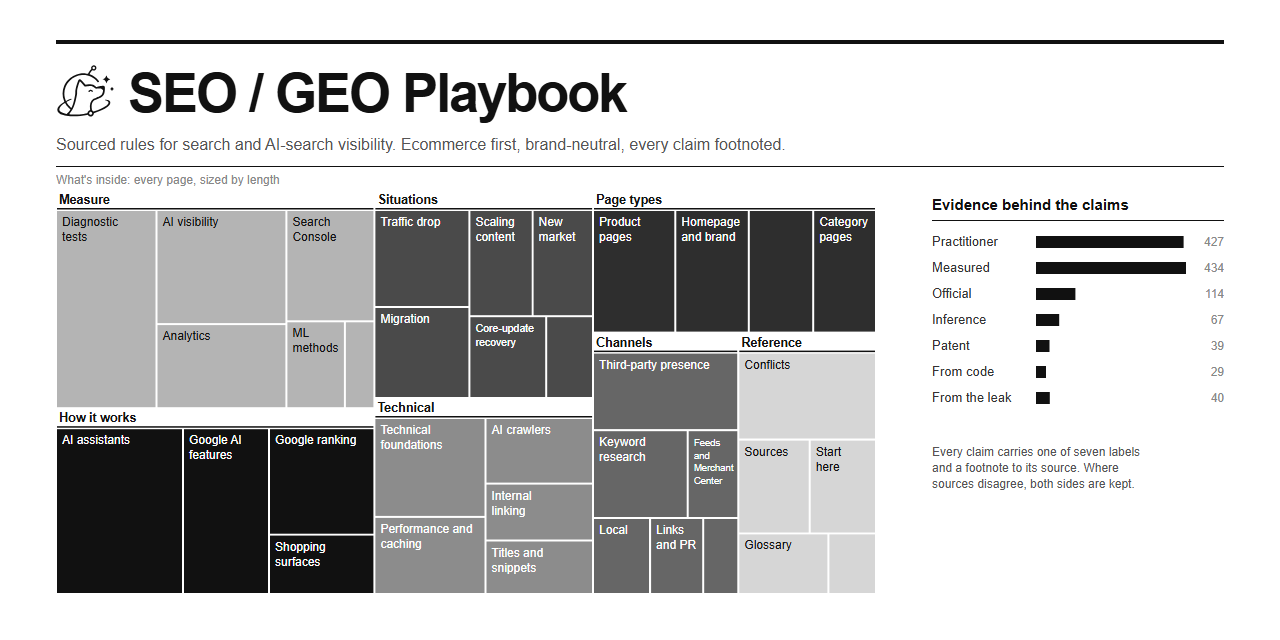
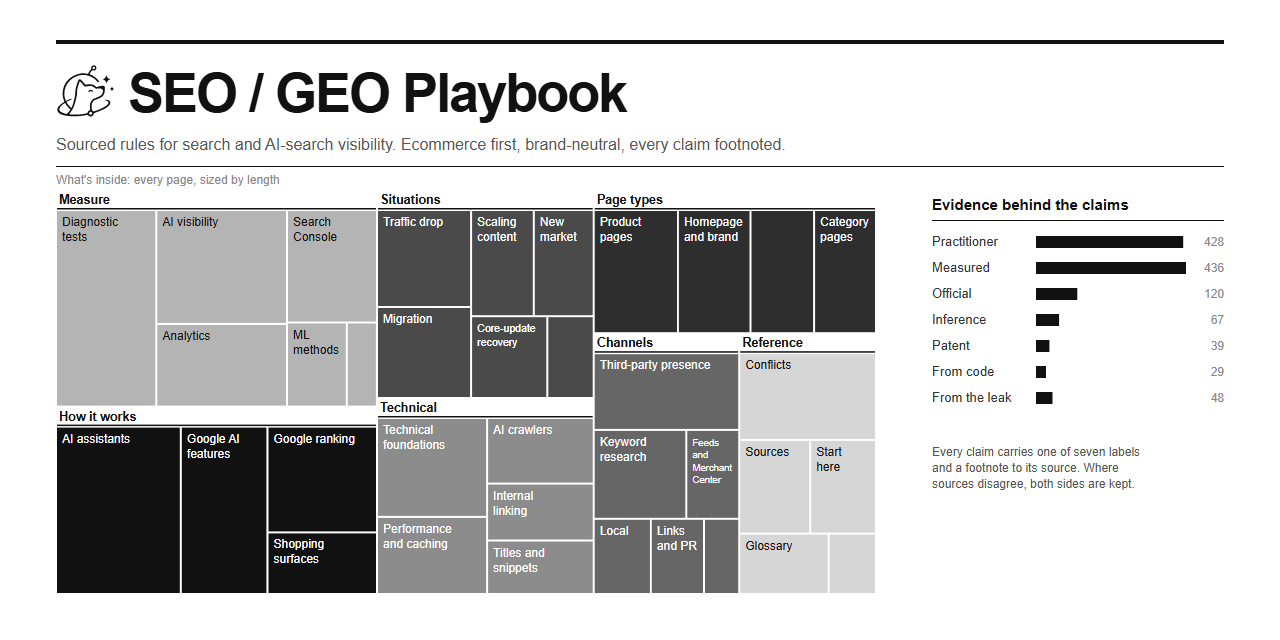
seo-geo-playbook-v2026.11.17

diff --git a/playbook/how-it-works/ai-assistants.md b/playbook/how-it-works/ai-assistants.md
@@ -4,10 +4,13 @@ title: How AI assistants retrieve and cite
 description: What ChatGPT, Gemini, Claude and Perplexity actually read — the ~200 characters after the H1 and per-chunk scores on fetched pages, mostly static HTML (Gemini reads JavaScript content), no schema, discovery, mode and model effects, English fan-out, engines that don't agree, citations outside Google's top 10, fresher content, ChatGPT's search config, rerankers and hybrid retrieval, HTML extraction, shrinking, volatile and site-restricted fan-outs, updated-vs-published recency, what models already know about brands, what academic GEO tests found, and how Perplexity's own index (Photon) ranks pages.
 tags: [geo, chatgpt, gemini, perplexity, claude, crawling, citations, fan-out, schema, freshness, rerankers, reddit, javascript, bing]
 status: stable
-generated: { by: claude-code/claude-opus-5-5, at: 2026-11-03T08:00:00Z }
-verified: { by: human:martin-aberastegue, at: 2026-11-03T08:01:00Z }
+generated: { by: claude-code/claude-opus-5-5, at: 2026-11-17T10:28:00Z }
+verified: { by: human:martin-aberastegue, at: 2026-11-17T10:28:00Z }
 stale_after: 2027-04-28T00:00:00Z
 sources:
+  - id: rs-chatgpt-exp
+    resource: "https://think.resoneo.com/chatgpt-experiments/"
+    title: "Resoneo, ChatGPT experiments tracker (feature flags read daily from chatgpt.com, Jul – Nov 2026; read in a browser, last ~6,000 of 66,000 characters not captured)"
   - id: seocrawl-ai-vs-organic
     resource: "https://seocrawl.ai/blog/ai-traffic-vs-organic-search-study"
     title: "SEOcrawl AI (David Kaufmann), AI traffic vs Google organic in 2026 (2026-10-23; 16,661 sites in Search Console, 3,949 in GA4; vendor's own users; report PDF read too)"
@@ -415,6 +418,12 @@ Same source and caveats as [section 19](#19-retrieved-is-not-cited): one recordi
 - **Perplexity.** Usually 15–45 web results per answer; each source goes REVIEWING, then REVIEWED (read, not cited, ~70 %) or SELECTED (cited, ~30 %). Most answers ran one search step (up to five), usually with 3 reworded queries. It has a named `shopping_intent` classifier (no figures; see [shopping surfaces](shopping-surfaces.md#5-shopping-signals-in-assistant-answers)), and 85 of 220 signed-in suggested follow-ups (38 %) were upsells to its paid agent. *Measured, vendor data, small sample.*[^st-perplexity]
 - **Do:** make sure key pages rank in Brave as well as Bing and Google; don't assume a URL an assistant hasn't found in search can be fetched on request; log the model per answer, signed in and out ([AI visibility tracking](../measure/ai-visibility-tracking.md)).
 
+## 21. What ChatGPT is testing (feature flags)
+- **Read flags as signals, not launches.** ChatGPT's web app embeds its feature flags in every page load; a daily logged-out capture shows what OpenAI is testing, but a flag proves neither that a feature shipped nor when. *From code; the source's own caveat.*[^rs-chatgpt-exp]
+- **Shopping and payments, autumn 2026:** a shopping price-alert setting appeared on 11 November (default daily, only tested), a wallet purchase-completion flag is on, and product images are fetched directly from the merchant with large images preferred. *From code; mostly tested.*[^rs-chatgpt-exp]
+- **Ads are being built:** weekly summaries trace a personalised-ads prototype (late July), an ads manager, a pinned placement (new 14 November) and ad credits for business workspaces, plus advertising agents named for a home-goods and a home-improvement retailer. *From code; headlines, not confirmed launches.*[^rs-chatgpt-exp]
+- **For tracking:** the flag base is the same for every user (personal settings are a thin layer), regional settings follow the IP country, and citation tags for source type and recency exist but are switched off. Track per country, signed out, and re-baseline when a feature goes live ([AI visibility tracking](../measure/ai-visibility-tracking.md)). *From code.*[^rs-chatgpt-exp]
+
 Related: [Google AI features](google-ai-features.md), [Google ranking](google-ranking.md), [third-party presence](../channels/third-party-presence.md), [AI crawlers and controls](../technical/ai-crawlers-and-controls.md), [AI visibility tracking](../measure/ai-visibility-tracking.md).
 
 [^chatgpt-retrieval]: Resoneo × Oncrawl, read 2026-10-27: funnel 58k retrieved → 7.6k shown → 5k cited → 760 opened; ~202-character snippet from the H1; JSON-LD stripped; bot roles and cache; utm on ~95 % of displayed links; instant vs thinking search counts.
@@ -490,3 +499,4 @@ Related: [Google AI features](google-ai-features.md), [Google ranking](google-ra
 [^st-brave]: Steve Toth, undated guide, read 2026-10-29: 26 Brave Search sessions with the AI answer off; vendor data.
 [^ser-gemini-utm]: Search Engine Roundtable, 2026-10-30: Gemini added `utm_source=gemini` to cited links from early September 2026 and stopped around 28 September (Natzir Turrado's chart; also seen by John Mueller); gemini.google.com referrer visits stayed flat on desktop; the iOS app opens links in a WebView with no referrer (Direct in GA4), visible only as the `GeminiiOS` user agent in server logs. No Google statement.
 [^seocrawl-ai-vs-organic]: SEOcrawl AI, 2026-10-23, blog post and 32-page report: Search Console clicks for 16,661 sites (Sep 2025 – Aug 2026 vs the year before) and GA4 AI-referred sessions for 3,949 sites (Mar 2025 – Aug 2026); sites are the vendor's own users who opted in, not a random sample; AI traffic counted only by referrer, so a floor. Google clicks −15.0 % in total, median site −20.1 %, 69 % of sites down, impressions +0.4 %; AI sessions +44.6 %, 0.36 % of all sessions, 1.25 per 100 Google organic sessions; assistant shares Mar–Aug 2026: ChatGPT 83.3 %, Gemini 6.0 %, Perplexity 4.7 %, Claude 3.7 %, Copilot 2.1 %. Ecommerce and retail (1,581 sites): median Google clicks −15 %, 70 % of sites down, 1.99 AI visits per 100 Google visits, AI referrals +54 % (76 % of sites grew), ChatGPT 90.4 % of AI referrals.
+[^rs-chatgpt-exp]: Resoneo, ChatGPT experiments tracker, read 2026-11-17: daily logged-out captures of the feature-flag payload embedded in chatgpt.com, plus weekly summaries; identifiers hashed, a flag proves neither shipping nor timing (Resoneo's own caveat). Shopping price alerts config first seen 2026-11-11 (default daily); `wallet_purchase_completion` on; product images fetched directly, large images only; ads timeline in weekly headlines (personalised-ads MVP W31, ads manager, pinned placement new 2026-11-14, workspace ad credits from 2026-11-04); retailer and travel ad agents named (Lowe's, Wayfair, Expedia); citation source-type and recency tags present but disabled; regional configs keyed on IP country; link and entity clicks in generated answers sampled at 1 %; flag base the same for every user with a thin per-account layer. The last ~6,000 of ~66,000 characters were not captured.

diff --git a/playbook/measure/ai-visibility-tracking.md b/playbook/measure/ai-visibility-tracking.md
@@ -4,10 +4,13 @@ title: AI-visibility tracking
 description: How to count AI-assistant traffic and visibility — untagged clicks by design and by accident, Direct spikes that are bots, GA4's AI Assistant channel, one hostname-anchored channel group, the real size of the channel, per-engine reporting, mentions without links, the May 2026 ChatGPT link change, what Bing's AI Performance covers, prompt-tracker pitfalls (personalisation, clean accounts), re-baselining at model changes and fan-out volatility, entity tracking with search on and off, brand-canon accuracy, share of voice beyond presence, building the prompt set, runs and margin of error, AI as a brand channel, dark AI traffic, AI Overview citation tracking, retrieved vs cited vs named, replay and sign-in skew, AI Mode journeys from Search Console follow-ups and Gemini link tags.
 tags: [measurement, geo, ga4, chatgpt, ai-assistants, attribution, caveats, prompt-tracking, share-of-voice, brand-accuracy]
 status: stable
-generated: { by: claude-code/claude-opus-5-5, at: 2026-11-03T08:00:00Z }
-verified: { by: human:martin-aberastegue, at: 2026-11-03T08:01:00Z }
+generated: { by: claude-code/claude-opus-5-5, at: 2026-11-12T11:55:00Z }
+verified: { by: human:martin-aberastegue, at: 2026-11-17T10:25:00Z }
 stale_after: 2027-04-28T00:00:00Z
 sources:
+  - id: rs-personal
+    resource: "https://think.resoneo.com/ai-mode-personalization/"
+    title: "Resoneo, What Google personalises, from the SERP to AI Mode (Nov 2026; Google help docs and blog, internal identifiers)"
   - id: seocrawl-ai-vs-organic
     resource: "https://seocrawl.ai/blog/ai-traffic-vs-organic-search-study"
     title: "SEOcrawl AI (David Kaufmann), AI traffic vs Google organic in 2026 (2026-10-23; 16,661 sites in Search Console, 3,949 in GA4; vendor's own users; report PDF read too)"
@@ -317,6 +320,9 @@ Steve Toth sells a paid AI-search membership, so his recordings are labelled ven
 - **The UTM tag was temporary.** Gemini tagged cited links with `utm_source=gemini` from early September 2026 and stopped around 28 September. Match Gemini by referrer (gemini.google.com) as well as by UTM, and expect iOS-app visits in Direct, identifiable only by the `GeminiiOS` user agent in server logs. *Measured, one practitioner's data, relayed; no Google statement.*[^ser-gemini-utm]
 - In recorded sessions, Gemini's outbound links carried `utm_source=gemini` (before it stopped), and 383 of 389 citation spans linked to the quoted words with a `#:~:text=` fragment. *Measured, vendor data.*[^st-gemini] Add the source to the channel group ([section 4](#4-one-channel-definition)); browsers don't send the fragment to the server, so the cited passage is visible in the answer, not in analytics ([analytics](analytics.md#7-ai-assistant-referrals-referrers-utms-and-bots)).
 
+## 24. Shared layer vs personal layer
+- AI Mode's web results are the same signed in or out for the same context; personalisation comes from a separate layer (purchases, bookings, preferred sources) that differs per user. Track the shared layer signed out, and treat any signed-in run as one customer's view, not a benchmark. *Official docs, relayed.*[^rs-personal] Consistent with [section 21](#21-replays-and-sign-in-state-skew-counts).
+
 Related: [analytics](analytics.md), [Search Console](search-console.md), [diagnostic tests](diagnostic-tests.md), [AI assistants](../how-it-works/ai-assistants.md), [third-party presence](../channels/third-party-presence.md).
 
 [^ignite-news]: Ignite Visibility weekly recap, read 2026-10-27: GSC impression inflation (week of 2026-04-04), GA4 AI Assistant channel (2026-05-09), GA4 bug (2026-08-29), GPT-6 referral loss with Adobe data (2026-10-10), Comscore, Seer and the field experiment on AIO clicks (2026-04-25), SparkToro zero-click; secondary reporting, primary sources not checked.
@@ -366,3 +372,4 @@ Related: [analytics](analytics.md), [Search Console](search-console.md), [diagno
 [^st-pronoun-queries]: Steve Toth, 2026-10-06: method plus one property's GSC export (2,226 rows → 2,158 candidates → 1,745 without brand → 454 follow-up keywords) and client examples; relays John Mueller via Search Engine Roundtable that AI Mode follow-ups appear as pronoun queries.
 [^ser-gemini-utm]: Search Engine Roundtable, 2026-10-30: Gemini added `utm_source=gemini` to cited links from early September 2026 and stopped around 28 September (Natzir Turrado's chart; also seen by John Mueller); gemini.google.com referrer visits stayed flat on desktop; the iOS app opens links in a WebView with no referrer (Direct in GA4), visible only as the `GeminiiOS` user agent in server logs. No Google statement.
 [^seocrawl-ai-vs-organic]: SEOcrawl AI, 2026-10-23, blog post and 32-page report: Search Console clicks for 16,661 sites (Sep 2025 – Aug 2026 vs the year before) and GA4 AI-referred sessions for 3,949 sites (Mar 2025 – Aug 2026); sites are the vendor's own users who opted in, not a random sample; AI traffic counted only by referrer, so a floor. Google clicks −15.0 % in total, median site −20.1 %, 69 % of sites down, impressions +0.4 %; AI sessions +44.6 %, 0.36 % of all sessions, 1.25 per 100 Google organic sessions; assistant shares Mar–Aug 2026: ChatGPT 83.3 %, Gemini 6.0 %, Perplexity 4.7 %, Claude 3.7 %, Copilot 2.1 %. Ecommerce and retail (1,581 sites): median Google clicks −15 %, 70 % of sites down, 1.99 AI visits per 100 Google visits, AI referrals +54 % (76 % of sites grew), ChatGPT 90.4 % of AI referrals.
+[^rs-personal]: Resoneo, Nov 2026: Google help pages and blog posts plus internal identifiers: AI Mode's web tools use a non-personalised search cache (same results signed in or out in the same context); personal layer for eligible users (18+, history on) from 16 sources incl. Gmail, Calendar, purchases and bookings; personal features fewest in the EEA, UK and Switzerland; preferred sources picked by over 600,000 distinct sources by Aug 2026; recommends schema markup in order and booking emails.

diff --git a/playbook/page-types/product-pages.md b/playbook/page-types/product-pages.md
@@ -4,10 +4,13 @@ title: Product pages
 description: What to do on a product page — factual opening sentence, price, specs and stock as server-rendered text in one main container (never in CSS pseudo-content), model codes as visible text, descriptive titles and URLs, variant URLs and markup, the same facts as the feed, "will it fit?" and use-case copy tested with task-style prompts, reviews and Q&A, own images for Lens and indexing, the page as ad landing page, "confirm and go" for AI visitors, out-of-stock and discontinued products, image and video speed, and checkout and form friction.
 tags: [seo, geo, product-pages, ecommerce, structured-data, variants, feeds, lens, google-ads, out-of-stock, soft-404, html-extraction, reviews, indexing, rendering, css, performance, lcp, checkout]
 status: stable
-generated: { by: claude-code/claude-opus-5-5, at: 2026-10-29T11:50:00Z }
-verified: { by: human:martin-aberastegue, at: 2026-10-29T11:56:00Z }
+generated: { by: claude-code/claude-opus-5-5, at: 2026-11-12T11:55:00Z }
+verified: { by: human:martin-aberastegue, at: 2026-11-17T10:25:00Z }
 stale_after: 2027-04-28T00:00:00Z
 sources:
+  - id: rs-images
+    resource: "https://think.resoneo.com/google-images/"
+    title: "Resoneo, What Google sees in an image (Nov 2026; 67,499 Gemini-labelled images, Cloud Vision tests, 2024 leak)"
   - id: chatgpt-retrieval
     resource: "https://think.resoneo.com/chatgpt-retrieval/"
     title: "Resoneo × Oncrawl, What ChatGPT pulls, shows and cites (Jul–Aug 2026; 1,249 answers, 88k results, server logs of 325k URLs)"
@@ -295,6 +298,15 @@ From Steve Toth, who sells a paid AI-search membership. His test conversations w
 - **Follow-ups show what the first answer left open.** Grouped Search Console pronoun queries fall into price checks, stock and availability, link requests, "find this" photo queries, fit or variant, and brand doubt. Fix the page each group lands on: a price passage where price is asked, a feed fix when "find me the link" goes to a reseller. On one retailer, "yes" replies landed on dozens of product pages. *Practitioner; measured, one case.*[^st-pronoun-queries] Method: [test 36](../measure/diagnostic-tests.md#36-rebuild-ai-mode-conversations-from-pronoun-queries).
 - **Plain HTML tables get reused.** Gemini lifted comparison tables from source pages for 5 citations signed in and 12 signed out, and showed its own product comparison table only signed out. *Measured, vendor data, small sample.*[^st-gemini] Put specs in an HTML table, not an image or a script-built widget. *Inference.*
 
+## 14. Product images Google can read
+- **Google labels images with Shopping's own filter names** (sleeve style, length, mounting). It reads some categories far better than others: clothing length was labelled in 90 % of images, furniture style in under 1 %. *Measured on Gemini labels, plus leak.*[^rs-images]
+- **Copies compete for one spot.** Google groups duplicates, so a manufacturer or stock photo reused across many shops competes with all of them; some CDNs also strip the C2PA and IPTC metadata that carries origin and licence. *From the leak and tests.*[^rs-images]
+- **Do:**
+  - Show the whole product and the detail a filter asks for, on a clean background.
+  - Publish your own photos on your site before syndicating them through feeds.
+  - Serve a full-size original and keep its metadata.
+  - Place the image next to the text it illustrates, with consistent alt text and caption.
+
 Related: [category pages](category-pages.md), [comparison pages and guides](comparison-and-guides.md), [shopping surfaces](../how-it-works/shopping-surfaces.md), [satisfaction per page type](../measure/diagnostic-tests.md#2-satisfaction-per-page-type), [titles and snippets](../technical/titles-and-snippets.md).
 
 [^chatgpt-retrieval]: Resoneo × Oncrawl, read 2026-10-27: funnel 58k retrieved → 7.6k shown → 5k cited → 760 opened; ~202-character snippet from the H1; JSON-LD stripped; bot roles and cache; utm on ~95 % of displayed links; instant vs thinking search counts.
@@ -350,3 +362,4 @@ Related: [category pages](category-pages.md), [comparison pages and guides](comp
 [^dbb-ecom-seo]: DebugBear, 2026-02-04 (upd. 2026-04-24): practitioner guide; restrictive facets only, sort parameters rarely rank, crawlable pagination (rel next/prev dropped by Google 2019, used by Bing); out-of-stock handling; Black Friday interest rises from summer.
 [^st-gemini]: Steve Toth, undated guide: 47 Gemini conversations (32 signed in, 15 signed out); 383 of 389 citation spans with a `#:~:text=` fragment; outbound links tagged `utm_source=gemini`; 3.6 Flash signed in, 3.5 Flash-Lite signed out; `ProductComparisonTable` seen signed out only; tables lifted from source pages for 5 citations signed in, 12 signed out.
 [^st-pronoun-queries]: Steve Toth, 2026-10-06: method plus one property's GSC export (2,226 rows → 2,158 candidates → 1,745 without brand → 454 follow-up keywords) and client examples; relays John Mueller via Search Engine Roundtable that AI Mode follow-ups appear as pronoun queries.
+[^rs-images]: Resoneo, Nov 2026: 67,499 Gemini-labelled images (up to 100 labels each), Cloud Vision tests, 2024 leak: labels are Knowledge Graph entities, dimensions and values reusing Shopping filter names; clothing length labelled in 90 % of cases, furniture style in under 1 %; images filtered before ranking (86 flags at indexing); aesthetic and technical scores, page relevance and click signals including a "click magnet" flag; copies grouped, so reused stock photos compete for one spot; some CDNs strip C2PA and IPTC metadata.

diff --git a/playbook/channels/feeds-and-merchant-center.md b/playbook/channels/feeds-and-merchant-center.md
@@ -4,10 +4,13 @@ title: Feeds and Merchant Center
 description: Feed audit checklist for Shopping and AI product cards — plain-word attributes, specific categories, data-source hygiene, feed-only title tests, feed links as landing URLs, promotions, reviews — plus constraint copy that answers "will it fit?", consistent product-line naming, Merchant Center limits, GTIN rules, price matching and the 2026 attribute and API changes.
 tags: [geo, feeds, merchant-center, shopping, agentic-commerce, product-data, gtin, merchant-api, product-lines]
 status: stable
-generated: { by: claude-code/claude-opus-5-5, at: 2026-11-03T08:06:00Z }
-verified: { by: human:martin-aberastegue, at: 2026-11-03T08:07:00Z }
+generated: { by: claude-code/claude-opus-5-5, at: 2026-11-12T11:55:00Z }
+verified: { by: human:martin-aberastegue, at: 2026-11-17T10:25:00Z }
 stale_after: 2027-04-28T00:00:00Z
 sources:
+  - id: rs-shopping
+    resource: "https://think.resoneo.com/google-shopping-ai-mode/"
+    title: "Resoneo, Google Shopping and AI Mode (Nov 2026; internal schema names, Merchant Center docs, constructed examples)"
   - id: rs-aio-aimode
     resource: "https://think.resoneo.com/ai-overviews-ai-mode/"
     title: "Resoneo, AI Overviews and AI Mode: what Google's AI reads before it answers (Oct 2026; internal schemas, provenance not stated, two single-case tests)"
@@ -107,6 +110,11 @@ From a practitioner's setup guide, *practitioner*, ≈2026;[^bp-gmc] check again
 - Merchant Center feeds, the Shopping Graph, Google reviews and merchant status are answer sources in AI Overviews and AI Mode in their own right, not only inputs to Shopping ads; the Shopping Graph refreshes about 2 billion of its 60 billion listings every hour and reconciles brands with Knowledge Graph entities. *From the leak.*[^rs-aio-aimode][^rs-kg-sources]
 - **Do:** treat feed accuracy (price, availability, GTIN, brand, category) as AI visibility work, and check Merchant Center for flags that limit where products show.
 
+## 6. Images and deals that pass Shopping's filters
+- **Main image:** a clean background with the product filling 75–90 % of the frame; Shopping scores background, framing and quality. *Official (Merchant Center), plus leak.*[^rs-shopping]
+- **Strikethrough prices:** the reference price must have applied on 30 of the last 200 days, the discount must be 5–90 %, and both prices must show on the page — check before Black Friday. *Official (Merchant Center rules), relayed.*[^rs-shopping]
+- **Do:** declare loyalty benefits and conversational attributes (including Q&A) in Merchant Center; AI answers read them ([shopping surfaces](../how-it-works/shopping-surfaces.md#6-how-google-shopping-ranks-and-filters-offers)).
+
 Related: [shopping surfaces](../how-it-works/shopping-surfaces.md), [product pages](../page-types/product-pages.md), [third-party presence](third-party-presence.md), [local](local.md), [diagnostic tests](../measure/diagnostic-tests.md#5-feed-attribute-coverage-and-title-tests), [product variants](../technical/technical-foundations.md#4-product-variants).
 
 [^ucp]: Searchind, agentic commerce, read 2026-10-27: eligibility over rank, constraint-based copy. No Google sources cited.
@@ -123,3 +131,4 @@ Related: [shopping surfaces](../how-it-works/shopping-surfaces.md), [product pag
 [^dj-tags]: DEJAN, 2026-09-20: AI Mode layout tags from leaked prompt content (`<ShoppingOffers>` for SkuLevelProduct with GTIN; `<Carousel>` / `<ImageGrid>` with ≥ 3 validated children of one entity type). Unverified; hypothesis only.
 [^rs-aio-aimode]: Resoneo, Oct 2026: internal schemas (how obtained not stated): Query Result Service sends query and fan-outs to ~100 providers across 138 result types, ranked by RankLab signals before the writing system (magi); 9 source types, only LINKED_SOURCE is a page link; Knowledge Graph facts keep a URL only if marked REQUIRES_CITATION; 21 commerce result types (price insights, review summaries, merchant status); Google-Extended does not remove a site from AI Overviews or AI Mode. Two single-case tests (Natzir Turrado, DEJAN, Oct 2026) saw uncited Knowledge Graph facts.
 [^rs-kg-sources]: Resoneo, Oct 2026: 5 billion entities, 500 billion facts; facts flagged requires_triangulation need three distinct hostnames; weak_data loses conflicts; names from 21 sources with a trust threshold above 0.6; Shopping Graph over 60 billion listings, ~2 billion refreshed hourly, brands reconciled with entities; merchant data flags can limit where products appear; corrections recorded only with evidence (legal document, primary source); six in ten organisations enter more than three months after founding; Kalicube measured a 6.26 % entity drop in June 2025.
+[^rs-shopping]: Resoneo, Nov 2026: internal schema names (interpretation not verified) plus Merchant Center rules: Shopping Graph >60 billion listings; 4 catalog scores (relevance, salient-term similarity, NavBoost clicks, predicted CTR for new products); 82 filters in ten groups (offer truthfulness, price confidence, merchant risk, deal validation…); image score reads background, framing and quality (Merchant Center: product fills 75–90 % of the frame); strikethrough prices need a reference price in force 30 of the last 200 days and a 5–90 % discount; AI answers read five fact sheets (product 27 fields, offer 30 incl. price history, return policy, merchant rating, Q&A, agentic-checkout eligibility); universal cart open in the US since 2026-10-15, agentic checkout in the US and Australia; Google-Agent uses published IP ranges and may ignore robots.txt.

diff --git a/playbook/how-it-works/shopping-surfaces.md b/playbook/how-it-works/shopping-surfaces.md
@@ -4,10 +4,13 @@ title: How shopping surfaces pick products
 description: Where AI product cards and grids come from (ChatGPT, AI Mode, Google Shopping), shortlist behaviour, ads in grids and in ChatGPT answers, checkout on Google and agent readiness (native controls, offer accuracy, standing conditions), the 2026 EEA free-listings removal, and how Google reads product lines, Chrome's shopping classifier and AI Mode layout tags.
 tags: [geo, shopping, feeds, merchant-center, agentic-commerce, chatgpt, ai-mode, eea, dma, product-lines, chrome]
 status: stable
-generated: { by: claude-code/claude-opus-5-5, at: 2026-10-29T11:50:00Z }
-verified: { by: human:martin-aberastegue, at: 2026-10-29T11:56:00Z }
+generated: { by: claude-code/claude-opus-5-5, at: 2026-11-12T11:55:00Z }
+verified: { by: human:martin-aberastegue, at: 2026-11-17T10:25:00Z }
 stale_after: 2027-04-28T00:00:00Z
 sources:
+  - id: rs-shopping
+    resource: "https://think.resoneo.com/google-shopping-ai-mode/"
+    title: "Resoneo, Google Shopping and AI Mode (Nov 2026; internal schema names, Merchant Center docs, constructed examples)"
   - id: ignite-news
     resource: "https://ignitevisibility.com/digital-marketing-news/"
     title: "Ignite Visibility, weekly digital marketing news recap (Jan – Oct 2026; relays third-party studies)"
@@ -170,6 +173,13 @@ Steve Toth sells a paid research membership; his recorded sessions (vendor data,
 - **Gemini lifts comparison tables.** Gemini showed a `ProductComparisonTable` for product comparisons, seen only signed out; comparison tables were lifted from source pages for 5 citations signed in and 12 signed out. `EntityCard` (Google's own records) was rare. *Measured, vendor data, small sample.*[^st-gemini] **Do:** put product comparisons in plain HTML tables on the page, which Gemini can reuse. *Inference.*
 - **Perplexity classifies shopping intent.** A named `shopping_intent` classifier appears in its traffic; no figures on what it changes. *Measured, vendor data.*[^st-perplexity]
 
+## 6. How Google Shopping ranks and filters offers
+- **Four catalog scores:** text relevance, salient-term similarity, measured clicks and predicted click-through (which lets new products rank before they have clicks). *From the leak (schema names, interpretation not verified).*[^rs-shopping]
+- **82 filters before ranking**, including offer truthfulness, price confidence, merchant risk and deal validation: an offer whose price or stock disagrees between feed, markup and page can be dropped. *From the leak.*[^rs-shopping]
+- **AI answers read five fact sheets** per product: product (27 fields), offer (30 fields, including price history, return policy, merchant rating, Q&A and agentic-checkout eligibility), reviews, brand and store. *From the leak.*[^rs-shopping]
+- **Checkout inside Google.** The universal cart has been open in the US since 15 October 2026 and agentic checkout runs in the US and Australia, so some sales close without a site visit; Google-Agent uses published IP ranges and may ignore robots.txt. *Official announcements, relayed.*[^rs-shopping]
+- **Do:** keep price and stock identical in feed, markup and page; fill return, shipping, review and Q&A attributes; verify Google-Agent by IP rather than blocking it; track orders placed inside Google separately ([analytics](../measure/analytics.md)).
+
 Related: [feeds and Merchant Center](../channels/feeds-and-merchant-center.md), [AI assistants](ai-assistants.md), [Google AI features](google-ai-features.md), [product pages](../page-types/product-pages.md), [Google updates timeline](../reference/google-updates-timeline.md).
 
 [^chatgpt-retrieval]: Resoneo × Oncrawl, read 2026-10-27: shopping catalogue, Google data inputs, card caching.
@@ -203,3 +213,4 @@ Related: [feeds and Merchant Center](../channels/feeds-and-merchant-center.md), 
 [^st-ai-mode]: Steve Toth, undated guide, read 2026-10-29: 30 AI Mode conversations, 280 cited sources; pool size inferred from `srcId`; relays Google's AI Mode announcement (UK, 2025-07-28) and Search Central; vendor data.
 [^st-gemini]: Steve Toth, undated guide, read 2026-10-29: 47 Gemini conversations (32 signed in, 15 signed out); 389 citation spans; vendor data.
 [^st-perplexity]: Steve Toth, undated guide, read 2026-10-29 (first ~100k characters): 48 Perplexity conversations (33 signed in, 15 incognito); vendor data.
+[^rs-shopping]: Resoneo, Nov 2026: internal schema names (interpretation not verified) plus Merchant Center rules: Shopping Graph >60 billion listings; 4 catalog scores (relevance, salient-term similarity, NavBoost clicks, predicted CTR for new products); 82 filters in ten groups (offer truthfulness, price confidence, merchant risk, deal validation…); image score reads background, framing and quality (Merchant Center: product fills 75–90 % of the frame); strikethrough prices need a reference price in force 30 of the last 200 days and a 5–90 % discount; AI answers read five fact sheets (product 27 fields, offer 30 incl. price history, return policy, merchant rating, Q&A, agentic-checkout eligibility); universal cart open in the US since 2026-10-15, agentic checkout in the US and Australia; Google-Agent uses published IP ranges and may ignore robots.txt.

diff --git a/playbook/how-it-works/google-ranking.md b/playbook/how-it-works/google-ranking.md
@@ -4,10 +4,13 @@ title: How Google ranks
 description: Section-level quality scores, new URLs inheriting their section's average, click memory per query and page (NavBoost, RankEmbed, rerankers), exact-term scoring, host caps, indexing as a quality decision, what core-update winners share, and what patents say about site quality, navigational queries, click thresholds and freshness, plus manual actions for site reputation abuse, brand size, spam losses carrying over to AI answers, and Preferred Sources.
 tags: [seo, google, google-leak, navboost, quality, indexing, core-updates, patents, freshness, spam, manual-actions, preferred-sources]
 status: stable
-generated: { by: claude-code/claude-opus-5-5, at: 2026-11-03T08:06:00Z }
-verified: { by: human:martin-aberastegue, at: 2026-11-03T08:07:00Z }
+generated: { by: claude-code/claude-opus-5-5, at: 2026-11-12T11:55:00Z }
+verified: { by: human:martin-aberastegue, at: 2026-11-17T10:25:00Z }
 stale_after: 2027-04-28T00:00:00Z
 sources:
+  - id: rs-signals
+    resource: "https://think.resoneo.com/ranking-signals/"
+    title: "Resoneo, Google's ranking signals and the 48 that apply to a web page (Nov 2026; 2024 leak, trial exhibits, Google statements; first half of the page read)"
   - id: rs-twiddlers
     resource: "https://think.resoneo.com/twiddlers/"
     title: "Resoneo, Twiddlers: what still moves a result after ranking (Nov 2026; a 2018 internal Google document, the 2024 leak, internal schema names, Google announcements)"
@@ -243,6 +246,12 @@ SERPrecon, which sells an SEO content-scoring tool, compiled the leaks, DOJ test
 - **Copyright notices count domain-wide.** Past a volume of valid removal notices, the whole domain is demoted, product pages included. *From the leak; Google announced the DMCA signal in 2012.*[^rs-twiddlers]
 - **Do:** date real updates clearly, treat DMCA notices as a site-wide risk, and on shopping queries check which specialist and deals sites the results favour ([third-party presence](../channels/third-party-presence.md)).
 
+## 15. The signal map
+- **305 signal sets, 48 for a web page.** The 2024 leak lists 167 sets per result and 138 per query; 48 apply to a web page and 31 of those score it. 34 sets serve generative AI. *From the leak; weights unknown.*[^rs-signals]
+- **Families that score a page:** rankers (base score, fast scoring, RankBrain), quality and authority (expertise, authenticity, topic authority, "hidden gems", first-hand "human voices"), demotions (DMCA, SafeSearch), freshness and personalisation. *From the leak.*[^rs-signals]
+- **The base score gates the rest.** RankBrain only rereads the results that are already near the top, so a page has to get there on its basic relevance and quality first. *From the leak and trial testimony.*[^rs-signals]
+- **Shops are judged as shops.** A brand selling online gets the "specialty merchants" treatment, a specialist site topic authority; know which type your page is before deciding what to strengthen ([section 14](#14-what-moves-a-result-after-ranking-twiddlers)). *From the leak, applied by the source.*[^rs-signals]
+
 Related: [Google AI features](google-ai-features.md), [AI assistants](ai-assistants.md), [Google Discover](../channels/google-discover.md), [traffic drop](../situations/traffic-drop.md), [category pages](../page-types/category-pages.md), [technical foundations](../technical/technical-foundations.md), [diagnostic tests](../measure/diagnostic-tests.md).
 
 [^leak-2]: Resoneo, leak part 2, 2024-10-31: OfficialPageTwiddler, host diversity caps.
@@ -282,3 +291,4 @@ Related: [Google AI features](google-ai-features.md), [AI assistants](ai-assista
 [^srp-commodity-content]: SERPrecon, 2026-10-15: relays Google's generative-AI features guide section on non-commodity content, Danny Sullivan and John Mueller (via Search Engine Journal), the leak's OriginalContentScore and patent US11354342B2; the vendor's commodity metric is not validated against rankings.
 [^mlseo-info-gain]: MLforSEO, 2026-05-11 (upd. 2026-10-24): explainer of patent US20200349181A1; states the patent does not confirm use in Search.
 [^rs-twiddlers]: Resoneo, Nov 2026: 2018 internal document ("more than 65" twiddlers in web search; predoc and lazy twiddlers; actions boost, filter, max_total, stride); 120 twiddler names in internal schemas by family (shopping includes specialty merchants, deals, product tags, categorical refinements); DMCA demotion applies domain-wide past a volume of valid notices; freshness reads page and estimated content dates; repeat-query demotion of already-seen results. No boost values given.
+[^rs-signals]: Resoneo, Nov 2026: 2024 leak (RankLab features, index modules), Oct 2023 trial transcript and the remedies opinion: 305 signal sets (167 per result, 138 per query); 48 apply to a web page, 31 of them score it; 34 serve generative AI; families include rankers, quality and authority (expertise, authenticity, topic authority, hidden gems, human voices), demotions, freshness and personalisation; RankBrain rereads only the top results; "specialty merchants" applies to brands selling online. Only the first half of the page (100,000 of 202,000 characters) was read.

diff --git a/playbook/how-it-works/google-ai-features.md b/playbook/how-it-works/google-ai-features.md
@@ -4,10 +4,13 @@ title: How Google's AI features pick sources
 description: AI Overviews, AI Mode and Gemini — Google's official "still SEO" line, schema and AI citations, grounding from ranking (FastSearch), passage citation, top-10 overlap, fan-out depth, how users behave, ads and citation UI, personalisation, when AI Overviews trigger, the click loss by position, how often answers change, the grounding word budget, reading from the index, uncited Knowledge Graph facts, Personal Intelligence, Pew's click data and how easily thinly covered questions sway AI answers.
 tags: [seo, geo, google, ai-overviews, ai-mode, gemini, citations, fan-out, ctr, branded-search, grounding, knowledge-graph, personalisation, misinformation]
 status: stable
-generated: { by: claude-code/claude-opus-5-5, at: 2026-11-03T08:06:00Z }
-verified: { by: human:martin-aberastegue, at: 2026-11-03T08:07:00Z }
+generated: { by: claude-code/claude-opus-5-5, at: 2026-11-12T11:55:00Z }
+verified: { by: human:martin-aberastegue, at: 2026-11-17T10:25:00Z }
 stale_after: 2027-04-28T00:00:00Z
 sources:
+  - id: rs-personal
+    resource: "https://think.resoneo.com/ai-mode-personalization/"
+    title: "Resoneo, What Google personalises, from the SERP to AI Mode (Nov 2026; Google help docs and blog, internal identifiers)"
   - id: rs-aio-aimode
     resource: "https://think.resoneo.com/ai-overviews-ai-mode/"
     title: "Resoneo, AI Overviews and AI Mode: what Google's AI reads before it answers (Oct 2026; internal schemas, provenance not stated, two single-case tests)"
@@ -286,6 +289,11 @@ Steve Toth sells a paid research membership; the measurements below are his vend
 - **Google-Extended doesn't remove a site from AI Overviews or AI Mode**, consistent with [AI crawlers and controls](../technical/ai-crawlers-and-controls.md). *From the leak, consistent with official docs.*[^rs-aio-aimode]
 - **Do:** state price, availability and specs in passages that answer on their own, keep feeds and reviews accurate, and fix brand facts at their source, since uncited graph facts can still shape the answer ([homepage and brand](../page-types/homepage-and-brand.md)).
 
+## 18. What AI Mode personalises
+- **The web layer is the same for everyone in a context.** AI Mode's web tools use a non-personalised search cache: signed-in and signed-out users with the same location, language and device get the same web results. *Official docs plus internal identifiers, relayed.*[^rs-personal]
+- **A personal layer sits on top** for eligible users (18+, history on): Gmail, Calendar, purchases and bookings can add brands already bought or a booked hotel. It is thinnest in the EEA, the UK and Switzerland. *Official docs, relayed.*[^rs-personal]
+- **Do:** measure AI visibility signed out for the shared layer ([AI visibility tracking](../measure/ai-visibility-tracking.md)); add schema markup to order and shipping emails, and offer the "Add to preferred sources" button. *Practitioner recommendation.*[^rs-personal]
+
 Related: [Google ranking](google-ranking.md), [AI assistants](ai-assistants.md), [shopping surfaces](shopping-surfaces.md), [AI crawlers and controls](../technical/ai-crawlers-and-controls.md), [comparison pages and guides](../page-types/comparison-and-guides.md).
 
 [^google-ai-guide]: Google generative-AI optimization guide, updated 2026-07-10.
@@ -333,3 +341,4 @@ Related: [Google ranking](google-ranking.md), [AI assistants](ai-assistants.md),
 [^st-aio]: Steve Toth, undated guide, read 2026-10-29: 24 conversations; load times on 13 pages with and 46 without an Overview; no citation counts; vendor data.
 [^st-gemini]: Steve Toth, undated guide, read 2026-10-29: 47 Gemini conversations (32 signed in, 15 signed out); 389 citation spans; vendor data.
 [^rs-aio-aimode]: Resoneo, Oct 2026: internal schemas (how obtained not stated): Query Result Service sends query and fan-outs to ~100 providers across 138 result types, ranked by RankLab signals before the writing system (magi); 9 source types, only LINKED_SOURCE is a page link; Knowledge Graph facts keep a URL only if marked REQUIRES_CITATION; 21 commerce result types (price insights, review summaries, merchant status); Google-Extended does not remove a site from AI Overviews or AI Mode. Two single-case tests (Natzir Turrado, DEJAN, Oct 2026) saw uncited Knowledge Graph facts.
+[^rs-personal]: Resoneo, Nov 2026: Google help pages and blog posts plus internal identifiers: AI Mode's web tools use a non-personalised search cache (same results signed in or out in the same context); personal layer for eligible users (18+, history on) from 16 sources incl. Gmail, Calendar, purchases and bookings; personal features fewest in the EEA, UK and Switzerland; preferred sources picked by over 600,000 distinct sources by Aug 2026; recommends schema markup in order and booking emails.

diff --git a/playbook/reference/sources-and-confidence.md b/playbook/reference/sources-and-confidence.md
@@ -4,8 +4,8 @@ title: Sources and confidence
 description: The research sources, what each is good for, the six-level confidence scale, how to read research, and what not to adopt.
 tags: [sources, confidence, research, method]
 status: stable
-generated: { by: claude-code/claude-opus-5-5, at: 2026-11-03T08:06:00Z }
-verified: { by: human:martin-aberastegue, at: 2026-11-03T08:07:00Z }
+generated: { by: claude-code/claude-opus-5-5, at: 2026-11-17T10:28:00Z }
+verified: { by: human:martin-aberastegue, at: 2026-11-17T10:28:00Z }
 stale_after: 2027-04-28T00:00:00Z
 sources:
   - id: seocrawl
@@ -249,6 +249,6 @@ Related: [conflicts register](conflicts.md), [glossary](glossary.md), [Google up
 [^haynes]: Marie Haynes, read 2026-10-27 via the post sitemap (the blog index paginates by script).
 [^growth-memo]: Growth Memo, read 2026-10-27 via the archive API; paywalled bodies not read.
 [^status]: Google Search Status Dashboard, read 2026-10-27.
-[^resoneo]: Updated 2026-11-03 with three more think.resoneo.com analyses (twiddlers, AI Overviews and AI Mode, Knowledge Graph sources). Resoneo studies 2024–2026; sample sizes per study as stated in each article. See the per-claim footnotes on the other pages.
+[^resoneo]: Updated 2026-11-03 and 2026-11-12 with seven more think.resoneo.com analyses (twiddlers, AI Overviews and AI Mode, Knowledge Graph sources, ranking signals, Shopping and AI Mode, AI Mode personalisation, Google Images); the "good publishers" page is mostly images and isn't cited; 2026-11-17 the ChatGPT experiments tracker (feature flags, read in a browser). Resoneo studies 2024–2026; sample sizes per study as stated in each article. See the per-claim footnotes on the other pages.
 [^searchind]: Searchind articles Aug 2025 – Sep 2026; incl. "eCommerce SEO for Google is not enough" (PBN recommendation).
 [^field-notes]: Anonymised; no figures here identify the shop.

diff --git a/playbook/log.md b/playbook/log.md
@@ -1,5 +1,16 @@
 # Log
 
+## 2026-11-17
+
+**Update** — Human review: ai-assistants and sources-and-confidence stamped `verified` again (Martin Aberastegue).
+**Update** — Added Resoneo's ChatGPT experiments tracker (feature flags read from chatgpt.com, Jul – Nov 2026; page too large for the fetcher, read in a browser; last ~6,000 of ~66,000 characters not captured): ai-assistants section 21 (what ChatGPT is testing: shopping price alerts, purchases, ads, tracking implications), labelled from code and not confirmed as live. Two OpenAI prompts quoted in the page were treated as data. ai-assistants and sources-and-confidence lost their `verified` stamp.
+**Update** — Human review: the 7 pages changed by the 2026-11-12 Resoneo update stamped `verified` again (Martin Aberastegue).
+
+## 2026-11-12
+
+**Update** — Added four Resoneo analyses (Nov 2026): google-ranking 15 (the signal map: 305 sets, 48 for a web page), shopping-surfaces 6 (how Shopping ranks and filters offers, fact sheets AI answers read, checkout inside Google), feeds-and-merchant-center 6 (image and strikethrough-price rules), google-ai-features 18 and ai-visibility-tracking 24 (shared vs personal layer in AI Mode), product-pages 14 (product images Google can read). The "good publishers" page is mostly images and was not used; only the first half of the ranking-signals page was read. Changed pages lost their `verified` stamp.
+**Lint** — 0 errors, 0 warnings; all section anchors, footnotes and sources resolve.
+
 ## 2026-11-04
 
 **Update** — Human review: search-console stamped `verified` again (Martin Aberastegue).

diff --git a/README.md b/README.md
@@ -58,11 +58,11 @@ Every claim carries one of seven confidence labels. Across the playbook, they br
 ```mermaid
 pie showData
     title Claims by confidence label
-    "Measured" : 434
-    "Practitioner" : 427
-    "Official" : 114
+    "Measured" : 436
+    "Practitioner" : 428
+    "Official" : 120
     "Inference" : 67
-    "From the leak" : 40
+    "From the leak" : 48
     "Patent" : 39
     "From code" : 29
 ```
